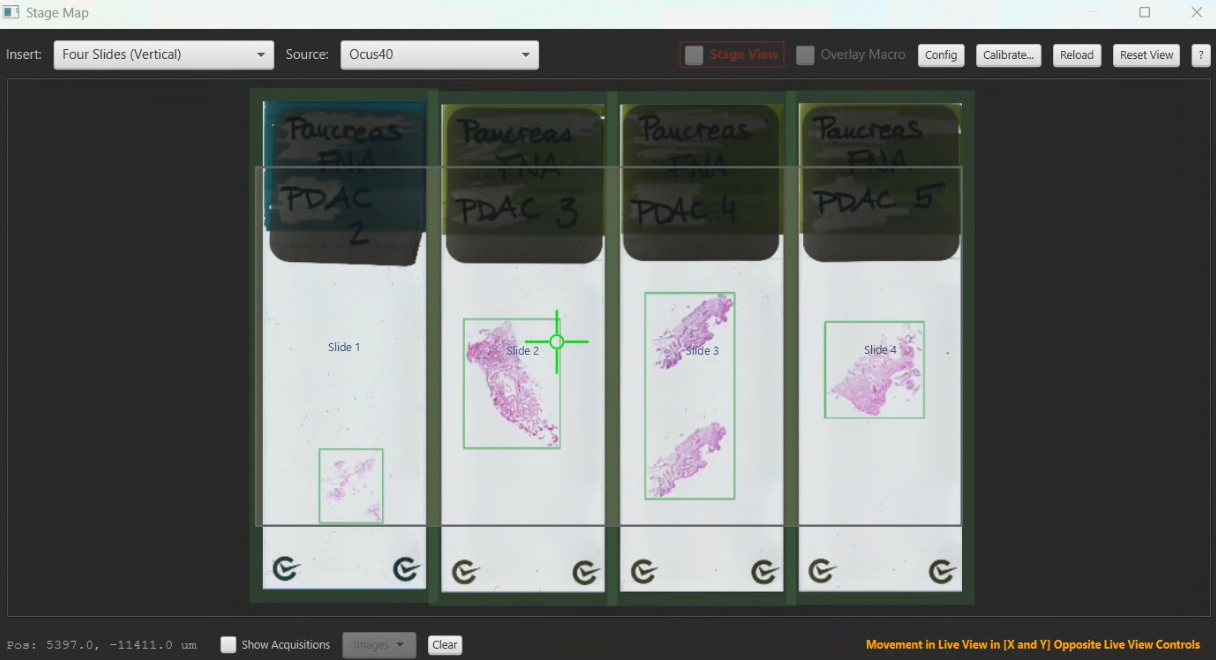
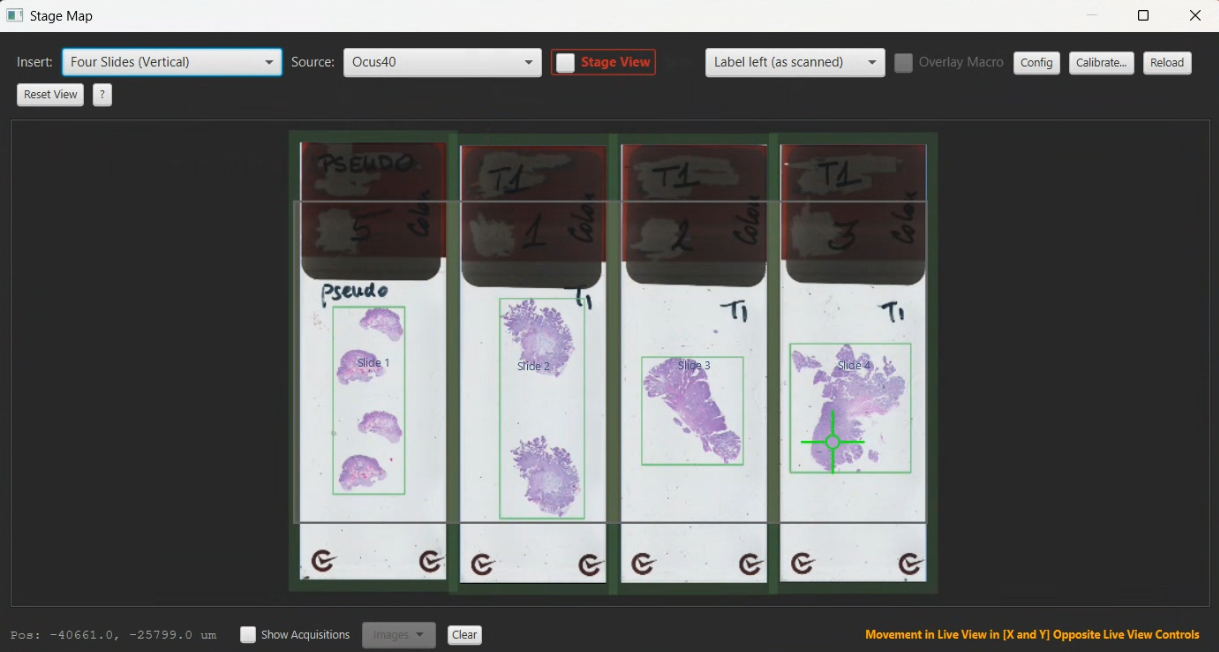
docs(images): replace the 4-slide Stage Map figure instead of adding a second one
Docs_MultiSlide_StageMap.png already covered the four-slide vertical carrier;
the new capture just shows it on current UI (Slide-placement dropdown, greyed
Overlay Macro). Overwrite it rather than keeping two near-identical figures, and
reuse it in stage-map.md as the multi-slot counterpart to the single-slide view
-- the point being that the canvas follows the Insert dropdown.

Claude-Session: https://claude.ai/code/session_01RGGpEUhYNeo6kpExXM8tGC

Changed region(s): [[0.0, 0.0, 1.0, 0.9202], [0.0, 0.9509, 0.4062, 1.0], [0.6875, 0.9509, 1.0, 1.0]]

diff --git a/documentation/images/IMAGE_REGISTRY.md b/documentation/images/IMAGE_REGISTRY.md
@@ -34,7 +34,6 @@ This file tracks the relationship between documentation screenshots and the Java
 | `Docs_MultiTileRefinement.png` | `controller/workflow/MultiTileRefinement.java` (numbered multi-tile SIFT panel, initial state) | 2026-07-23 | OK |
 | `Docs_MultiTileRefinement2.png` | `controller/workflow/MultiTileRefinement.java` (per-point capture state) + SIFT Matching Settings dialog (`ui/SiftAutoAlignHelper.java`) | 2026-07-23 | OK |
 | `Docs_StageMap.png` | `ui/stagemap/StageMapWindow.java`, `ui/stagemap/StageMapCanvas.java` | 2026-08-22 | OK -- re-captured; single horizontal slide with macro overlay, now showing the Slide-placement dropdown and "Calibrate..." |
-| `Docs_StageMap2.png` | `ui/stagemap/StageMapWindow.java`, `ui/stagemap/StageMapCanvas.java` | 2026-08-22 | OK -- four-slide vertical carrier with per-slot macros. Supersedes `Docs_MultiSlide_StageMap.png` as the current-UI capture of this insert (that one predates the Slide-placement dropdown but is still the figure used in the multi-slide workflow doc) |
 | `Docs_DishCoverslipCalibration.png` | Diagram / `ui/stagemap/StageMapWindow.java` insert calibration | -- | CHECK -- previously untracked |
 | `Docs_PropagationManager.png` | `controller/ForwardPropagationWorkflow.java` | -- | CHECK -- previously untracked |
 | `Docs_NoiseCharacterization.png` | `ui/NoiseCharacterizationDialog.java` | -- | CHECK -- previously untracked |
@@ -48,7 +47,7 @@ This file tracks the relationship between documentation screenshots and the Java
 | `Docs_ppmmenu.png` | `SetupScope.java` (PPM modality submenu) | -- | CHECK |
 | `Docs_MultiSlide_Assignment.png` | `ui/MultiSlideAssignmentDialog.java` | 2026-07-23 | OK |
 | `Docs_MultiSlide_BatchPanel.png` | `controller/MultiSlideExistingImageWorkflow.java` | 2026-07-23 | OK |
-| `Docs_MultiSlide_StageMap.png` | `ui/stagemap/StageMapWindow.java` (multi-slide holder preview) | 2026-07-23 | OK |
+| `Docs_MultiSlide_StageMap.png` | `ui/stagemap/StageMapWindow.java`, `ui/stagemap/StageMapCanvas.java` (four-slide vertical carrier) | 2026-08-22 | OK -- re-captured; also used in stage-map.md as the multi-slot counterpart to the single-slide figure |
 
 ## Missing Screenshots (UI exists but no image)
 

diff --git a/documentation/tools/stage-map.md b/documentation/tools/stage-map.md
@@ -11,7 +11,7 @@ Visual representation of the microscope stage insert showing slide positions. He
 
 The layout drawn on the canvas follows the **Insert** dropdown. Above is a single horizontal slide with its macro overlaid; below is the four-slide vertical carrier used for [Multi-Slide Batch Acquisition](multi-slide-acquisition.md), where each slot shows its assigned macro and the green region selected for acquisition. **Overlay Macro** is greyed out for multi-slot carriers -- a single macro belongs to one slot, so the per-slot previews are used instead.
 
-![Stage Map showing the four-slide vertical carrier: each of the four slots holds an assigned slide macro with a green acquisition region, and the lime crosshair marks the current stage position in slot 4](../images/Docs_StageMap2.png)
+![Stage Map showing the four-slide vertical carrier: each of the four slots holds an assigned slide macro with a green acquisition region, and the lime crosshair marks the current stage position in slot 4](../images/Docs_MultiSlide_StageMap.png)
 
 ## Prerequisites
 
